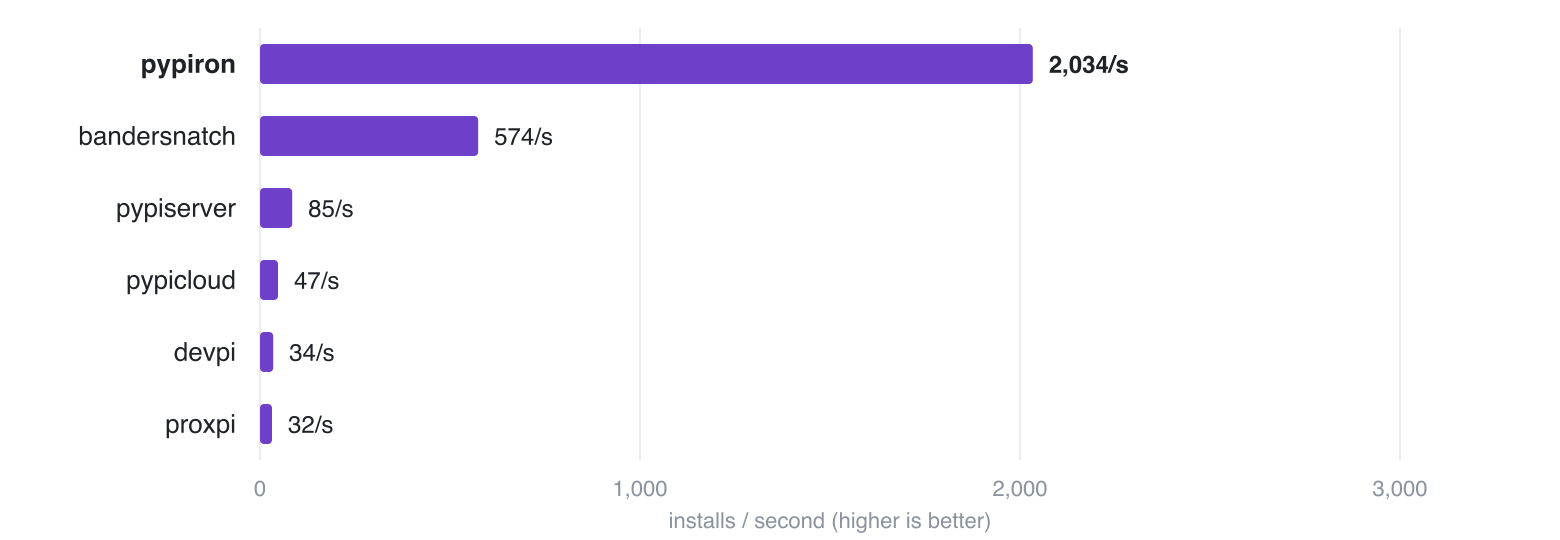
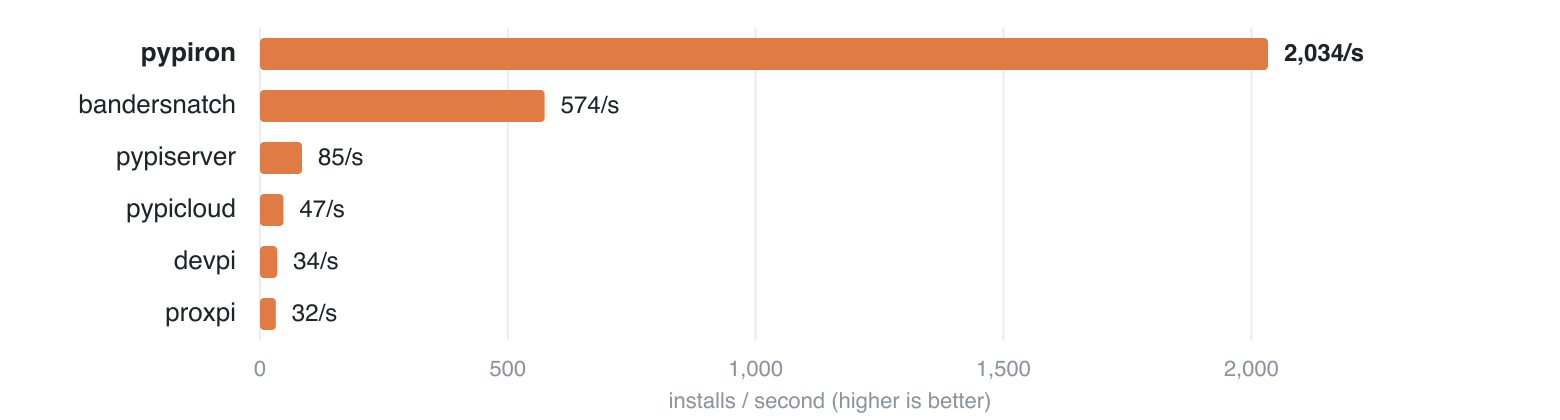
feature: tighten install-throughput chart (2,300 axis, rust bars)
Cap the x-axis at 2,300/s instead of letting nice_ticks round the data
max up to 3,000 — the longest bar (~2,034/s) was stranded in a third of
empty canvas. Narrower, tighter bars and the iron/rust brand orange
(#e07b45) in place of purple.

diff --git a/bench/install/plot.py b/bench/install/plot.py
@@ -20,10 +20,11 @@ from pathlib import Path
 
 from benchlib import RESULTS
 
-PURPLE = "#6e40c9"
+BAR = "#e07b45"  # iron/rust brand orange
 TEXT = "#1f2328"
 AXIS = "#8b949e"
 GRID = "#eaecef"
+XMAX = 2300.0  # axis ceiling (longest bar ~2,034/s; leaves room for its label)
 ALIAS = {"bander": "bandersnatch"}  # cmp-bander-ceiling.json -> bandersnatch
 
 
@@ -45,22 +46,22 @@ def collect() -> list[tuple[str, float]]:
     return sorted(best.items(), key=lambda kv: -kv[1])
 
 
-def nice_ticks(maxv: float, n: int = 4) -> list[float]:
-    step = maxv / n
+def nice_ticks(top: float, n: int = 5) -> list[float]:
+    """Round gridline values from 0 up to (not exceeding) the axis ceiling `top`."""
+    step = top / n
     mag = 10 ** math.floor(math.log10(step))
     step = next(m * mag for m in (1, 2, 2.5, 5, 10) if m * mag >= step)
-    top = math.ceil(maxv / step) * step
-    return [i * step for i in range(round(top / step) + 1)]
+    return [i * step for i in range(int(top // step) + 1)]
 
 
 def svg(data: list[tuple[str, float]], title: str, subtitle: str) -> str:
-    W, LABEL, PAD_R, ROW = 780, 130, 80, 36
+    W, LABEL, PAD_R, ROW = 780, 130, 80, 26
     head = 56 if title else 14
     plot_w = W - LABEL - PAD_R
     base = head + len(data) * ROW
     H = base + 40
-    ticks = nice_ticks(max(v for _, v in data))
-    top = ticks[-1]
+    top = XMAX
+    ticks = nice_ticks(top)
 
     def x(v: float) -> float:
         return LABEL + plot_w * v / top
@@ -88,7 +89,7 @@ def svg(data: list[tuple[str, float]], title: str, subtitle: str) -> str:
         f'<text x="{LABEL + plot_w / 2:.1f}" y="{base + 34}" font-size="11" fill="{AXIS}" '
         f'text-anchor="middle">installs / second (higher is better)</text>'
     )
-    bh = 20
+    bh = 16
     for i, (name, v) in enumerate(data):
         by = head + i * ROW + (ROW - bh) / 2
         ty = by + bh * 0.72
@@ -98,7 +99,7 @@ def svg(data: list[tuple[str, float]], title: str, subtitle: str) -> str:
             f'fill="{TEXT}" text-anchor="end">{name}</text>'
         )
         s.append(
-            f'<rect x="{LABEL}" y="{by:.1f}" width="{x(v) - LABEL:.1f}" height="{bh}" rx="2" fill="{PURPLE}"/>'
+            f'<rect x="{LABEL}" y="{by:.1f}" width="{x(v) - LABEL:.1f}" height="{bh}" rx="2" fill="{BAR}"/>'
         )
         s.append(
             f'<text x="{x(v) + 8:.1f}" y="{ty:.1f}" font-size="12" font-weight="{weight}" '